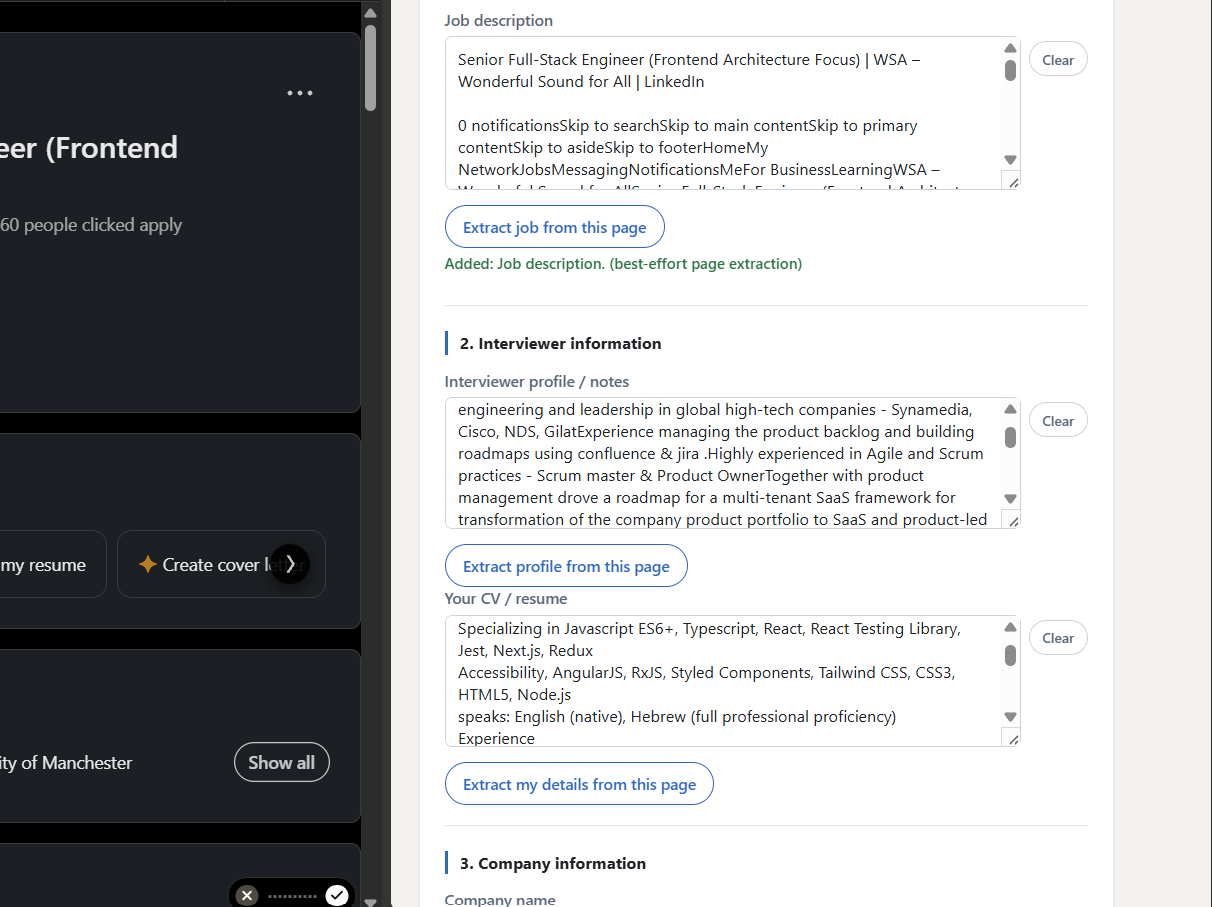
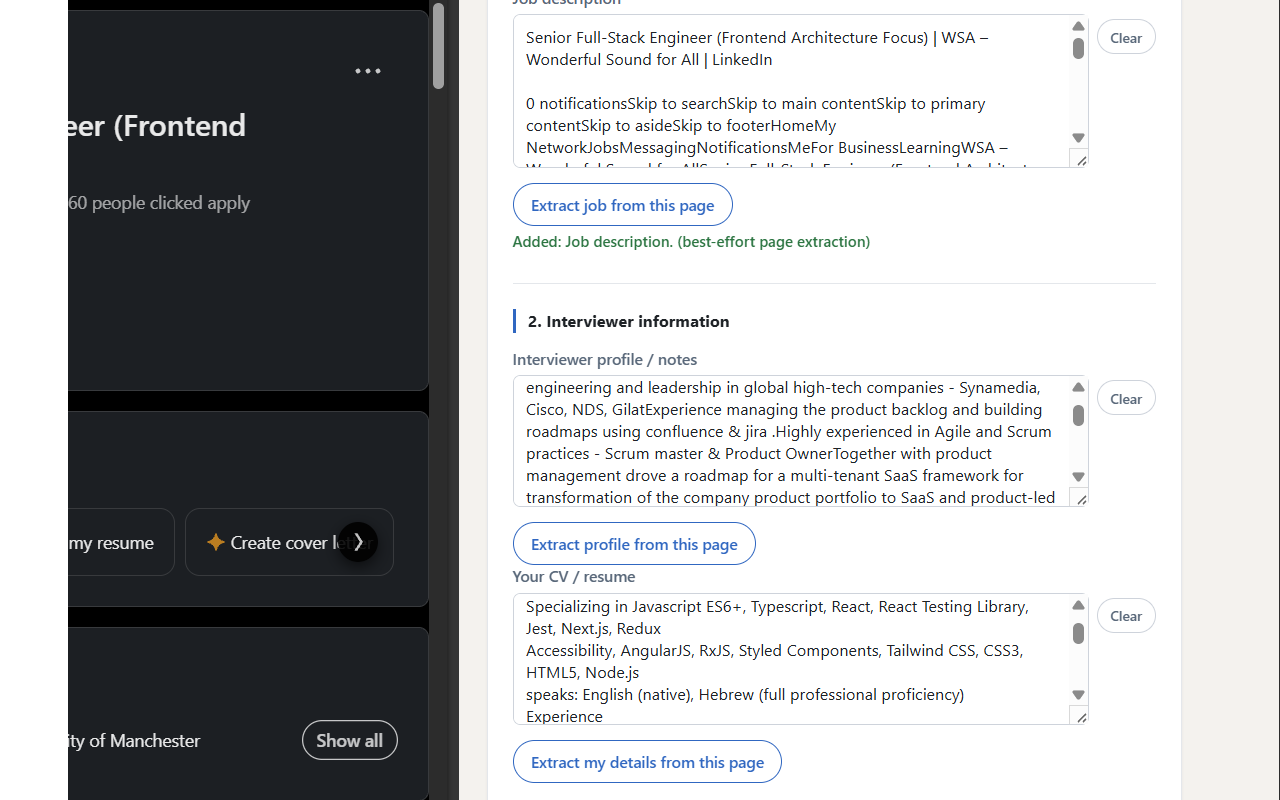
feat: add full-size and updated screenshots for documentation

diff --git a/README.md b/README.md
@@ -15,15 +15,15 @@ It helps you:
 
 The result is a focused workflow from **discover → understand → reach out**. It keeps the human in control of the final message and the final decision.
 
-![Career Connect - Career tab - screenshot 1 of 2](assets/screenshots/screenshot-1.png)
+![Career Connect - Career tab - screenshot 1 of 2](assets/screenshots/fullsize/screenshot-1.png)
 
-![Career Connect - Career tab - screenshot 2 of 2](assets/screenshots/screenshot-2.png)
+![Career Connect - Career tab - screenshot 2 of 2](assets/screenshots/fullsize/screenshot-2.png)
 
-![Career Connect - Connect tab - screenshot 1 of 2](assets/screenshots/screenshot-3.png)
+![Career Connect - Connect tab - screenshot 1 of 2](assets/screenshots/fullsize/screenshot-3.png)
 
-![Career Connect - Connect tab - screenshot 2 of 2](assets/screenshots/screenshot-4.png)
+![Career Connect - Connect tab - screenshot 2 of 2](assets/screenshots/fullsize/screenshot-4.png)
 
-![Career Connect - Report sample](assets/screenshots/screenshot-5.png)
+![Career Connect - Report sample](assets/screenshots/fullsize/screenshot-5.png)
 
 ## One workflow for the work around networking
 
